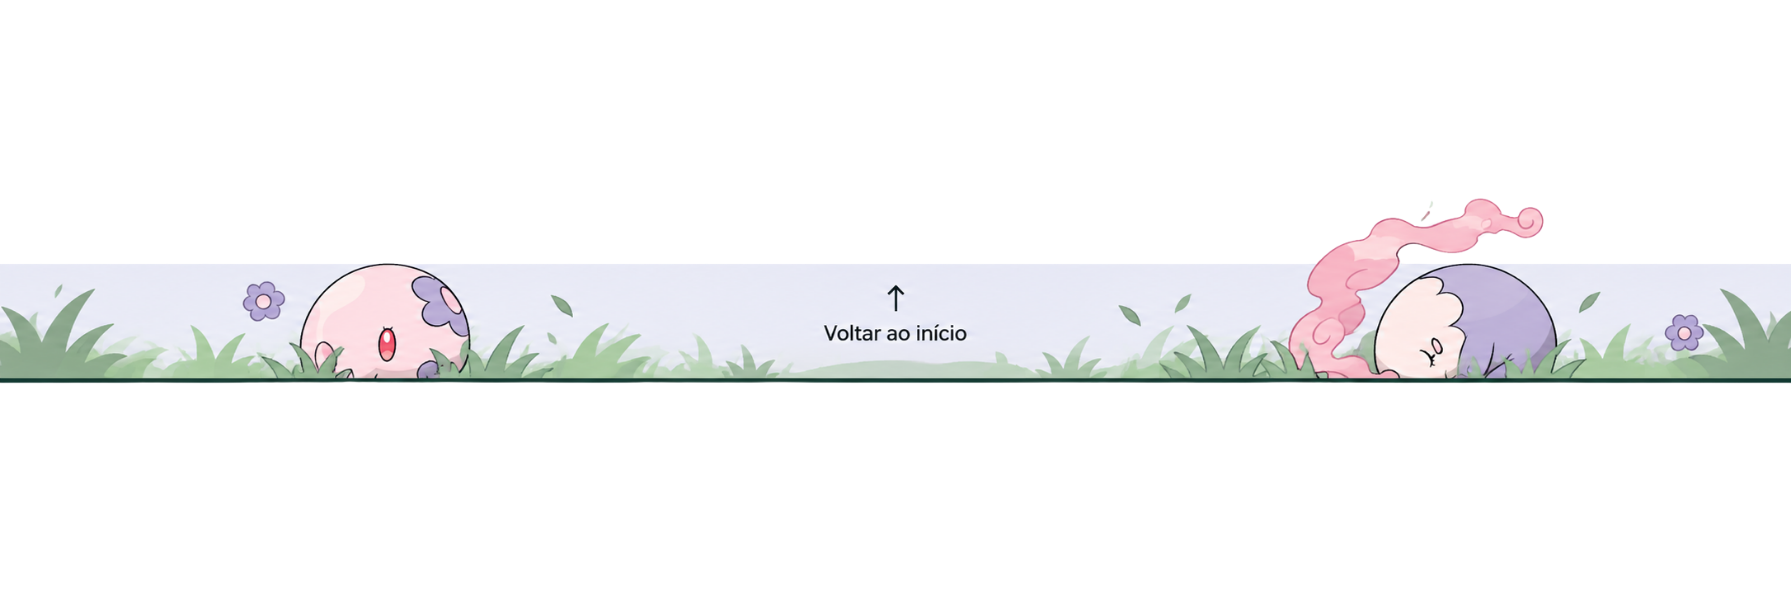
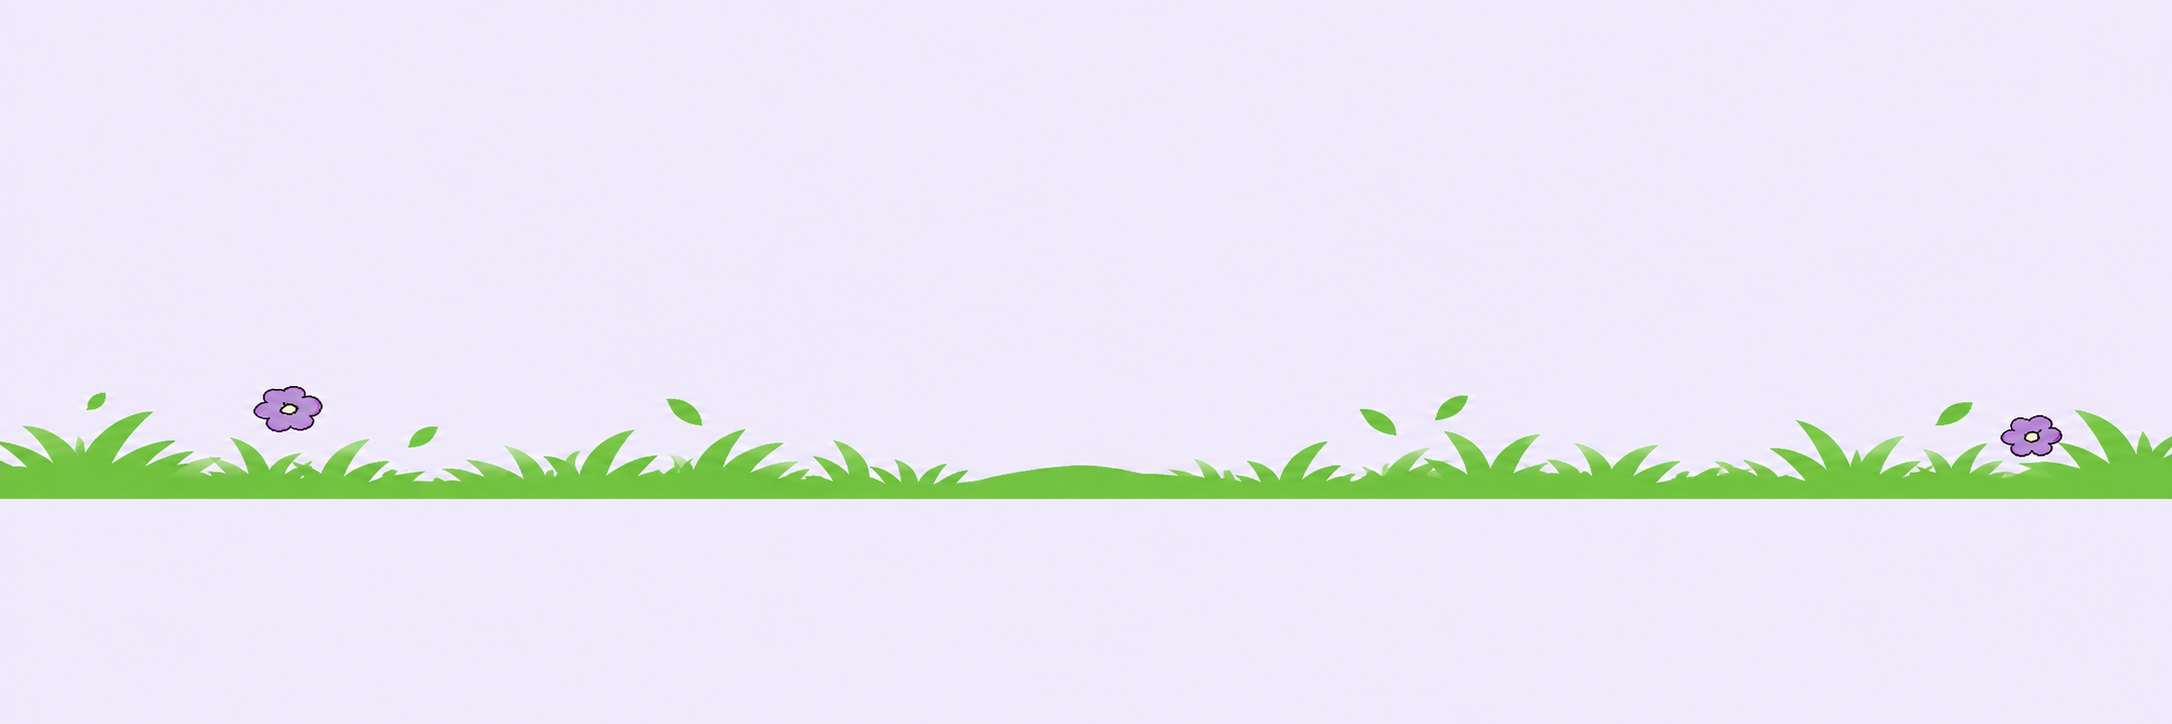
adicionando alterações do footer, footer agora esta interativo

diff --git a/public/css/estilo.css b/public/css/estilo.css
@@ -117,6 +117,170 @@ html {
     background-position: center calc(100% + 190px);
 }
 
+/* FOOTER INTERATIVO — HOME (REQ-003)
+   O cenário limpo (image_footer.png) é usado como fundo. Os personagens e o
+   link são elementos HTML separados, evitando duplicação na imagem.
+   A imagem tem margem lilás abaixo da grama equivalente a 10,4% da largura;
+   o deslocamento abaixo mantém a grama encostada na base do footer. */
+
+.footer-home {
+  position: relative;
+  height: 170px;
+  overflow: hidden;
+  background-color: #EEECFA;
+  background-image: url("../assets/imgs/image_footer.png");
+  background-repeat: no-repeat;
+  background-size: 100% auto;
+  background-position: center calc(100% + 10.4vw);
+}
+
+/* Personagens posicionados de forma absoluta: o hover não desloca o layout. */
+.footer-personagem {
+  position: absolute;
+  bottom: 0;
+  height: auto;
+  z-index: 1;
+  transition: transform 0.3s ease;
+}
+
+.footer-munna {
+  left: 7%;
+  bottom: -45px;
+  width: 220px;
+}
+
+.footer-musharna {
+  right: 6%;
+  bottom: -22px;
+  width: 260px;
+}
+
+/* Link central "Voltar ao início": seta e texto formam uma única área clicável. */
+.footer-voltar {
+  position: absolute;
+  top: 40px;
+  left: 50%;
+  z-index: 2;
+  display: flex;
+  flex-direction: column;
+  align-items: center;
+  transform: translateX(-50%);
+  color: #404040;
+  font-family: var(--fonte-titulo);
+  font-size: 18px;
+  font-weight: 600;
+  line-height: 1.2;
+  text-decoration: none;
+}
+
+.footer-seta {
+  font-size: 30px;
+  line-height: 1;
+  transition: transform 0.2s ease;
+}
+
+/* Movimento apenas no hover do próprio personagem.
+   Em telas sem hover real (toque), os personagens ficam estáticos. */
+@media (hover: hover) and (pointer: fine) {
+  .footer-munna:hover,
+  .footer-musharna:hover {
+    transform: translateY(-10px);
+  }
+
+  .footer-voltar:hover .footer-seta {
+    transform: translateY(-3px);
+  }
+}
+
+/* Foco visível para navegação por teclado. */
+.footer-voltar:focus-visible {
+  outline: 3px solid #E33535;
+  outline-offset: 4px;
+  border-radius: 4px;
+}
+
+@media (max-width: 1024px) {
+  .footer-home {
+    height: 240px;
+  }
+
+  .footer-munna {
+    left: 6%;
+    bottom: -37px;
+    width: 180px;
+  }
+
+  .footer-musharna {
+    right: 5%;
+    bottom: -18px;
+    width: 215px;
+  }
+
+  .footer-voltar {
+    top: 30px;
+    font-size: 17px;
+  }
+}
+
+@media (max-width: 600px) {
+  .footer-home {
+    height: 190px;
+  }
+
+  .footer-munna {
+    left: 3%;
+    bottom: -20px;
+    width: 85px;
+  }
+
+  .footer-musharna {
+    right: 3%;
+    bottom: -10px;
+    width: 100px;
+  }
+
+  .footer-voltar {
+    top: 20px;
+    font-size: 14px;
+  }
+
+  .footer-seta {
+    font-size: 22px;
+  }
+}
+
+@media (max-width: 380px) {
+  .footer-munna {
+    width: 70px;
+  }
+
+  .footer-musharna {
+    width: 85px;
+  }
+
+  .footer-voltar {
+    font-size: 13px;
+  }
+}
+
+/* Respeita a preferência do usuário por menos movimento. */
+@media (prefers-reduced-motion: reduce) {
+  html {
+    scroll-behavior: auto;
+  }
+
+  .footer-personagem,
+  .footer-seta {
+    transition: none;
+  }
+
+  .footer-munna:hover,
+  .footer-musharna:hover,
+  .footer-voltar:hover .footer-seta {
+    transform: none;
+  }
+}
+
 
 /* LOGIN */
 

diff --git a/public/index.html b/public/index.html
@@ -17,6 +17,9 @@
 </head>
 
 <body class="pagina-home">
+    <!-- Alvo do link "Voltar ao início". Fica no topo real da página. -->
+    <div id="topo"></div>
+
     <!-- Navbar compartilhada: o componente é carregado por js/navbar.js -->
     <div id="navbar-container"></div>
 
@@ -42,8 +45,23 @@
       </div>
     </div>
   
-    <div class="footer">
-    </div>
+    <!-- Footer interativo da Home (REQ-003).
+         O cenário limpo é aplicado pelo CSS; personagens e link são
+         elementos HTML independentes, sem duplicação na imagem. -->
+    <footer class="footer-home">
+      <img class="footer-personagem footer-munna"
+           src="./assets/imgs/munna_fofa_em_tons_pastel.png"
+           alt="Munna">
+
+      <a class="footer-voltar" href="#topo">
+        <span class="footer-seta" aria-hidden="true">↑</span>
+        <span>Voltar ao início</span>
+      </a>
+
+      <img class="footer-personagem footer-musharna"
+           src="./assets/imgs/musharna_envolta_em_sonhos_pastel.png"
+           alt="Musharna">
+    </footer>
 
     <script src="/js/navbar.js"></script>
     <script>

diff --git a/docs/requisicoes/REQ-003-footer-interativo.md b/docs/requisicoes/REQ-003-footer-interativo.md
@@ -1,0 +1,145 @@
+# REQ-003 — Footer interativo do League Scout
+
+**Projeto:** League Scout  
+**Tipo:** Requisição de front-end  
+**Situação:** Especificação para análise no modo Plan do OpenCode  
+**Referências:** `AGENTS.md`, REQ-001 (navbar), REQ-002 (tipografia), vídeo demonstrativo do footer do site Pokémon, arte já presente no projeto.
+
+## 1. Contexto
+
+O League Scout utiliza uma identidade visual inspirada em Pokémon Black & White e no site oficial de Pokémon. A Home já possui um footer visual, atualmente implementado como uma `div.footer` vazia em `public/index.html`, com a imagem `public/assets/imgs/image_footer.png` aplicada como `background-image` em `public/css/estilo.css`.
+
+A animação desejada é inspirada no footer do site Pokémon observado no vídeo fornecido pelo responsável do projeto, mas foi definida uma adaptação própria: **Munna e Musharna devem se mover apenas enquanto o cursor estiver sobre cada personagem** (opção B), e não flutuar continuamente.
+
+**Atenção — situação real dos arquivos:** a imagem `image_footer.png` atual **já contém desenhados Munna, Musharna, grama, a seta e o texto “Voltar ao início”**. Portanto, simplesmente sobrepor duas imagens de personagens e um botão HTML à arte existente causará duplicação de elementos. Esse problema visual deve ser identificado e solucionado no planejamento, sem alterar a arte sem aprovação.
+
+## 2. Objetivo
+
+Transformar o footer da Home em uma seção interativa e visualmente fiel à identidade do League Scout, com personagens independentes que respondam ao hover e um controle funcional para retornar ao topo da página.
+
+## 3. Escopo
+
+### Dentro do escopo
+
+- Implementar o footer interativo **na Home (`public/index.html`)** nesta requisição; avaliar reutilização futura sem expandir automaticamente para Login, Cadastro ou dashboard.
+- Incorporar **exatamente os dois novos arquivos de imagem de personagens** listados na seção 6.
+- Exibir Munna à esquerda e Musharna à direita, próximos à grama na base do footer.
+- Animar **somente o personagem sob o mouse** por meio de uma transição suave de posição vertical.
+- Fazer os personagens retornarem à posição original quando o mouse sair.
+- Implementar o controle central “Voltar ao início” (texto e seta) como um único elemento HTML interativo.
+- Retornar suavemente ao topo da página ao ativar o controle.
+- Preservar a paleta, o estilo das ilustrações e a tipografia Montserrat/Inter definidos no projeto.
+- Fazer ajustes mínimos necessários em HTML/CSS e, se realmente necessário, JavaScript puro.
+
+### Fora do escopo
+
+- Back-end, banco de dados, sessão, autenticação, rotas e configurações do servidor.
+- Modificações da navbar e das funções introduzidas na REQ-001.
+- Mudanças da identidade tipográfica introduzida na REQ-002.
+- Implementação automática nas páginas de Login, Cadastro, dashboard e páginas legadas.
+- Bibliotecas de animação, frameworks, efeitos 3D, canvas ou soluções complexas.
+- Substituição das ilustrações fornecidas por imagens externas.
+- Edição ou recriação automática de imagens de fundo sem autorização do responsável pelo projeto.
+
+## 4. Funcionalidades
+
+### 4.1 — Exibição visual
+
+O footer deve exibir o fundo lilás `#EEECFA`, elementos decorativos de grama alta, Munna do lado esquerdo, Musharna do lado direito e um botão/seta central “Voltar ao início”. A composição deve se integrar ao final da Home sem cobrir seus conteúdos anteriores.
+
+### 4.2 — Hover individual dos Pokémon
+
+- Munna se desloca sutilmente para cima enquanto o cursor estiver sobre sua imagem e retorna ao ponto de origem ao sair.
+- Musharna possui comportamento equivalente, independentemente de Munna.
+- Usar CSS simples, preferencialmente `transition` e `transform: translateY(...)`, com uma movimentação inicial sugerida de `-10px` e transição aproximada de `0.3s` (ajustável após validação visual).
+- Não aplicar animação automática permanente.
+- O efeito não deverá deslocar os demais elementos do layout.
+- Em dispositivos sem hover, os personagens devem permanecer visíveis e estáticos; o controle “Voltar ao início” deve continuar utilizável.
+- Respeitar `prefers-reduced-motion: reduce`, desabilitando ou reduzindo as transições quando solicitado pelo usuário.
+
+### 4.3 — Voltar ao início
+
+- A seta e o texto devem formar uma área clicável única, preferencialmente um link `<a href="#topo">` com alvo existente no topo da Home, aproveitando o `scroll-behavior: smooth` já presente; ou outra solução simples justificada no Plan.
+- A interação deve funcionar por mouse e teclado, com foco visível.
+- O controle deve ser texto e ícone reais no HTML, **não apenas parte da imagem de fundo**.
+- A seta poderá ter um pequeno deslocamento visual no hover, sem efeito contínuo.
+
+### 4.4 — Estado visual e legibilidade
+
+- Preservar os tons pastel e manter o texto central legível sobre o fundo.
+- Não sobrepor os personagens ao botão central.
+- Manter o layout coerente em larguras aproximadas de 1366px e 1024px, verificando também telas menores se possível.
+
+## 5. Regras de negócio e restrições
+
+1. O footer é uma funcionalidade de interface e não depende do login do administrador.
+2. O hover de um Pokémon deve afetar apenas a sua própria imagem.
+3. Não utilizar efeitos de flutuação contínua, conforme decisão expressa do responsável.
+4. A arte original serve como referência, mas não pode permanecer exibindo cópias estáticas dos Pokémon atrás das novas imagens móveis.
+5. A seta e o texto existentes dentro da imagem original também não podem permanecer visíveis como duplicatas do novo controle HTML.
+6. **Não apagar, recortar, alterar nem sobrescrever** `image_footer.png` sem autorização explícita.
+7. Se não existir uma imagem de fundo contendo apenas o cenário, o OpenCode deverá **apresentar alternativas no modo Plan** (por exemplo, solicitar um fundo separado) e aguardar uma decisão, em vez de improvisar mascaramentos que prejudiquem o visual.
+8. Não instalar dependências nem modificar arquivos fora do escopo aprovado.
+9. Respeitar as regras de legibilidade, simplicidade e finalidade acadêmica do `AGENTS.md`.
+
+## 6. Interface e arquivos de imagem obrigatórios
+
+Os **arquivos PNG separados** devem ser colocados pelo responsável do projeto nesta pasta:
+
+```text
+public/assets/imgs/
+├── munna_fofa_em_tons_pastel.png
+└── musharna_envolta_em_sonhos_pastel.png
+```
+
+**Utilização obrigatória:**
+
+- **Munna (esquerda):** `/assets/imgs/munna_fofa_em_tons_pastel.png`
+- **Musharna (direita):** `/assets/imgs/musharna_envolta_em_sonhos_pastel.png`
+
+Ambas as imagens possuem fundo transparente. O OpenCode deverá usar estes arquivos exatos, sem gerar novas imagens ou trocar seus nomes, e controlar suas dimensões por CSS, preservando a proporção com `height: auto`.
+
+### Estrutura existente a considerar
+
+- `public/index.html`: atualmente contém `<div class="footer"></div>`.
+- `public/css/estilo.css`: atualmente contém `.footer { height: 100px; background-image: url("../assets/imgs/image_footer.png"); background-color: #EEECFA; background-size: 100% auto; background-position: center calc(100% + 190px); }`.
+- `public/assets/imgs/image_footer.png`: imagem existente com o cenário **e** os personagens e o texto já incorporados.
+
+### Estratégia técnica esperada
+
+Antes de propor alterações, inspecionar os arquivos reais e explicar como o fundo existente será tratado sem duplicação. Caso exista ou seja fornecido um fundo limpo (sem personagens e sem texto), o OpenCode poderá propor a nova estrutura do footer usando esse cenário, duas tags `<img>` e um link central. Decidir no Plan se um arquivo `footer.css` separado é útil ou se é mais simples manter estilos em `estilo.css`. Utilizar JavaScript **somente se CSS/HTML não forem suficientes**.
+
+## 7. Critérios de aceitação
+
+1. O footer aparece ao final da Home e preserva o estilo visual do League Scout.
+2. As duas imagens PNG com os **nomes definidos acima** são carregadas sem erro 404.
+3. Munna fica à esquerda, Musharna à direita e ambos mantêm suas proporções.
+4. Cada personagem se move suavemente para cima **apenas durante seu próprio hover**, retornando ao sair.
+5. Não existe flutuação contínua.
+6. Não há Pokémon duplicados, texto duplicado ou seta duplicada devido à imagem de fundo antiga.
+7. O controle central “Voltar ao início” funciona por clique e teclado e leva ao topo de forma suave quando as preferências do usuário permitem animação.
+8. O footer não apresenta cortes ou sobreposições indesejadas nas larguras testadas.
+9. A navbar e os estilos das requisições anteriores continuam funcionando.
+10. Nenhuma modificação de back-end ou inclusão de bibliotecas foi realizada.
+11. O código é simples, comentado quando necessário e explicável pelo desenvolvedor.
+12. Caso o cenário limpo necessário não esteja disponível, o OpenCode deverá registrar o impedimento e solicitar aprovação da solução visual **antes da implementação**.
+
+---
+
+## Prompt para o OpenCode — modo Plan
+
+```text
+Leia @AGENTS.md e @docs/requisicoes/REQ-003-footer-interativo.md.
+
+Analise o footer existente no League Scout e elabore o planejamento da REQ-003, sem modificar arquivos.
+
+Use obrigatoriamente estas imagens que serão colocadas em public/assets/imgs/:
+- munna_fofa_em_tons_pastel.png (esquerda)
+- musharna_envolta_em_sonhos_pastel.png (direita)
+
+A animação dos personagens deve ocorrer SOMENTE no hover individual, por CSS simples. O botão central deve retornar suavemente ao topo.
+
+Atenção: image_footer.png já contém personagens, seta e texto incorporados. Identifique como evitar a duplicação desses elementos. Não edite nem substitua a imagem sem minha autorização. Se for necessário um fundo limpo, apresente alternativas e aguarde minha decisão.
+
+Informe os arquivos a criar/modificar, a estratégia visual, os recursos HTML/CSS/JS, riscos e testes. Preserve navbar, tipografia e back-end. Não implemente ainda; aguarde minha aprovação.
+```

diff --git a/AGENTS.md b/AGENTS.md
@@ -207,3 +207,20 @@ A associação entre líderes e Pokémon será realizada por meio de um relacion
 A implementação da integridade referencial e da exclusão em cascata no banco de dados será de responsabilidade do desenvolvedor do projeto.
 
 A inteligência artificial deverá respeitar essa regra de negócio durante o desenvolvimento do front-end, sem modificar os scripts SQL ou implementar a lógica de exclusão no back-end sem autorização explícita.
+
+### Prioridade de resolução e responsividade
+
+O League Scout é um projeto acadêmico que será apresentado presencialmente à banca avaliadora, utilizando o computador do responsável pelo desenvolvimento.
+
+Por esse motivo, o desenvolvimento das interfaces deverá priorizar a experiência em computadores desktop, especialmente na resolução utilizada para a apresentação.
+
+Diretrizes:
+
+- Priorizar a organização, a legibilidade e a aparência visual na resolução de referência.
+- Não implementar adaptações para dispositivos móveis sem necessidade ou solicitação explícita.
+- Evitar media queries e regras de responsividade excessivas.
+- Garantir que os elementos principais permaneçam visíveis, sem cortes ou sobreposições na resolução de referência.
+- Preservar os ajustes visuais realizados manualmente pelo responsável pelo projeto.
+- Não comprometer a simplicidade do código para atender a resoluções que não fazem parte do objetivo da apresentação.
+
+A responsividade completa não constitui um requisito obrigatório para a versão acadêmica atual do League Scout.
